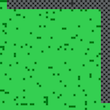
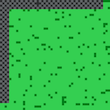
Create board layout and set object spawns

diff --git a/kayl.html b/kayl.html
@@ -39,9 +39,9 @@
       <table id="gameboard" class="text-center">
         <tr class="y0">
           <td class="x0 topLeftCorner"></td>
-          <td class="x1 topBorder"></td>
-          <td class="x2 topBorder"></td>
-          <td class="x3 topBorder"></td>
+          <td class="x1 topBorder wall-down"></td>
+          <td class="x2 topBorder wall-down"></td>
+          <td class="x3 topBorder wall-down"></td>
           <td class="x4 topBorder"></td>
           <td class="x5 topBorder"></td>
           <td class="x6 topBorder"></td>
@@ -50,107 +50,107 @@
           <td class="x9 topRightCorner"></td>
         </tr>
         <tr class="y1">
-          <td class="x0 leftBorder"></td>
-          <td class="x1 bodyTile"></td>
-          <td class="x2 bodyTile1"></td>
-          <td class="x3 barrier"></td>
-          <td class="x4 bodyTile"></td>
-          <td class="x5 bodyTile wall-right"></td>
-          <td class="x6 bodyTile wall-left"></td>
-          <td class="x7 bodyTile2"></td>
+          <td class="x0 leftBorder wall-right"></td>
+          <td class="x1 wall-left wall-up wall2-lu"></td>
+          <td class="x2 bodyTile1 wall-up"></td>
+          <td class="x3 bodyTile4 wall-up wall-right wall2-ru"></td>
+          <td class="x4 wall-left"></td>
+          <td class="x5 bodyTile"></td>
+          <td class="x6 bodyTile"></td>
+          <td class="x7 wall-down"></td>
           <td class="x8 bodyTile"></td>
           <td class="x9 rightBorder"></td>
         </tr>
         <tr class="y2">
-          <td class="x0 leftBorder"></td>
-          <td class="x1 bodyTile"></td>
+          <td class="x0 leftBorder wall-right"></td>
+          <td class="x1 bodyTile wall-left"></td>
           <td class="x2 bodyTile1"></td>
-          <td class="x3 bodyTile"></td>
-          <td class="x4 bodyTile"></td>
-          <td class="x5 bodyTile3 wall-right wall-down"></td>
-          <td class="x6 bodyTile"></td>
-          <td class="x7 bodyTile"></td>
-          <td class="x8 bodyTile"></td>
+          <td class="x3 bodyTile wall-right"></td>
+          <td class="x4 bodyTile wall-left"></td>
+          <td class="x5 bodyTile3"></td>
+          <td class="x6 bodyTile wall-right"></td>
+          <td class="x7 bodyTile wall-left wall-up wall2-lu"></td>
+          <td class="x8 barrier"></td>
           <td class="x9 rightBorder"></td>
         </tr>
         <tr class="y3">
-          <td class="x0 leftBorder"></td>
+          <td class="x0 leftBorder wall-right"></td>
           <td class="x1 bodyTile wall-left wall-down wall2-ld"></td>
-          <td class="x2 bodyTile wall-left wall-up wall2-lu"></td>
-          <td class="x3 bodyTile wall-right wall-down wall2-rd"></td>
-          <td class="x4 bodyTile wall-right wall-up wall2-ru"></td>
-          <td class="x5 bodyTile wall-up"></td>
-          <td class="x6 bodyTile"></td>
+          <td class="x2 bodyTile wall-down"></td>
+          <td class="x3 bodyTile"></td>
+          <td class="x4 bodyTile wall-up"></td>
+          <td class="x5 bodyTile"></td>
+          <td class="x6 bodyTile wall-up"></td>
           <td class="x7 bodyTile3"></td>
-          <td class="x8 bodyTile"></td>
-          <td class="x9 rightBorder"></td>
+          <td class="x8 bodyTile wall-right"></td>
+          <td class="x9 rightBorder wall-left"></td>
         </tr>
         <tr class="y4">
           <td class="x0 leftBorder"></td>
-          <td class="x1 bodyTile wall-right wall-left wall-down wall3-rld"></td>
-          <td class="x2 bodyTile wall-up wall-left wall-down wall3-ldu"></td>
-          <td class="x3 bodyTile wall-right wall-up wall-down wall3-rdu"></td>
-          <td class="x4 bodyTile1 wall-right wall-left wall-up wall3-rlu"></td>
-          <td class="x5 bodyTile4"></td>
+          <td class="x1 bodyTile wall-up"></td>
+          <td class="x2 bodyTile wall-up"></td>
+          <td class="x3 bodyTile"></td>
+          <td class="x4 bodyTile1"></td>
+          <td class="x5 barrier"></td>
           <td class="x6 bodyTile"></td>
           <td class="x7 bodyTile"></td>
-          <td class="x8 bodyTile"></td>
-          <td class="x9 rightBorder"></td>
+          <td class="x8 bodyTile wall-right"></td>
+          <td class="x9 rightBorder wall-left"></td>
         </tr>
         <tr class="y5">
           <td class="x0 leftBorder"></td>
           <td class="x1 bodyTile"></td>
-          <td class="x2 bodyTile2"></td>
-          <td class="x3 bodyTile"></td>
+          <td class="x2 bodyTile2 wall-down"></td>
+          <td class="x3 bodyTile wall-down"></td>
           <td class="x4 bodyTile4"></td>
           <td class="x5 bodyTile"></td>
           <td class="x6 bodyTile4"></td>
           <td class="x7 bodyTile"></td>
-          <td class="x8 bodyTile3"></td>
-          <td class="x9 rightBorder"></td>
+          <td class="x8 bodyTile3 wall-right"></td>
+          <td class="x9 rightBorder wall-left"></td>
         </tr>
         <tr class="y6">
           <td class="x0 leftBorder"></td>
-          <td class="x1 bodyTile"></td>
-          <td class="x2 bodyTile3"></td>
-          <td class="x3 bodyTile"></td>
+          <td class="x1 bodyTile wall-right wall-down wall2-rd"></td>
+          <td class="x2 bodyTile3 wall-left wall-up wall2-lu"></td>
+          <td class="x3 bodyTile wall-right wall-up wall2-ru"></td>
           <td class="x4 bodyTile"></td>
           <td class="x5 bodyTile"></td>
           <td class="x6 bodyTile2"></td>
           <td class="x7 bodyTile"></td>
-          <td class="x8 bodyTile"></td>
-          <td class="x9 rightBorder"></td>
+          <td class="x8 bodyTile wall-right"></td>
+          <td class="x9 rightBorder wall-left"></td>
         </tr>
         <tr class="y7">
-          <td class="x0 leftBorder"></td>
-          <td class="x1 bodyTile"></td>
+          <td class="x0 leftBorder wall-right"></td>
+          <td class="x1 bodyTile wall-up wall-left wall-down wall3-ldu"></td>
           <td class="x2 bodyTile2"></td>
           <td class="x3 bodyTile"></td>
           <td class="x4 bodyTile"></td>
           <td class="x5 bodyTile"></td>
           <td class="x6 bodyTile"></td>
           <td class="x7 bodyTile1"></td>
-          <td class="x8 bodyTile"></td>
-          <td class="x9 rightBorder"></td>
+          <td class="x8 bodyTile wall-right"></td>
+          <td class="x9 rightBorder wall-left"></td>
         </tr>
         <tr class="y8">
           <td class="x0 leftBorder"></td>
-          <td class="x1 bodyTile"></td>
+          <td class="x1 barrier"></td>
           <td class="x2 bodyTile"></td>
-          <td class="x3 bodyTile2"></td>
-          <td class="x4 bodyTile"></td>
+          <td class="x3 bodyTile2 wall-right"></td>
+          <td class="x4 bodyTile wall-left"></td>
           <td class="x5 bodyTile"></td>
           <td class="x6 bodyTile1"></td>
-          <td class="x7 bodyTile"></td>
-          <td class="x8 bodyTile"></td>
-          <td class="x9 rightBorder"></td>
+          <td class="x7 bodyTile wall-down"></td>
+          <td class="x8 bodyTile wall-down wall-right wall2-rd"></td>
+          <td class="x9 rightBorder wall-left"></td>
         </tr>
         <tr class="y9">
           <td class="x0 bottomLeftCorner"></td>
           <td class="x1 bottomBorder"></td>
           <td class="x2 bottomBorder"></td>
-          <td class="x3 bottomBorder"></td>
-          <td class="x4 bottomBorder"></td>
+          <td class="x3 bottomBorder wall-right"></td>
+          <td class="x4 bottomBorder wall-left"></td>
           <td class="x5 bottomBorder"></td>
           <td class="x6 bottomBorder"></td>
           <td class="x7 bottomBorder"></td>
@@ -161,3 +161,18 @@
     </div>
   </body>
 </html>
+
+wall-up
+wall-down
+wall-left
+wall-right
+
+2wall-RU: wall-right wall-up wall2-ru
+2wall-LU: wall-left wall-up wall2-lu
+2wall-RD: wall-right wall-down wall2-rd
+2wall-LD: wall-left wall-down wall2-ld
+
+3wall-RLD: wall-right wall-left wall-down wall3-rld
+3wall-LDU: wall-up wall-left wall-down wall3-ldu
+3wall-RDU: wall-right wall-up wall-down wall3-rdu
+3wall-RLU: wall-right wall-left wall-up wall3-rlu

diff --git a/css/kayl-styles.css b/css/kayl-styles.css
@@ -9,37 +9,6 @@ td {
   text-align: center;
 }
 
-.topLeftCorner {
-  background-image: url(../kayl-img/topLeftCorner.png);
-}
-
-.topRightCorner {
-  background-image: url(../kayl-img/topRightCorner.png);
-}
-
-.bottomLeftCorner {
-  background-image: url(../kayl-img/bottomLeftCorner.png);
-}
-
-.bottomRightCorner {
-  background-image: url(../kayl-img/bottomRightCorner.png);
-}
-
-.topBorder {
-  background-image: url(../kayl-img/topBorder.png);
-}
-
-.bottomBorder {
-  background-image: url(../kayl-img/bottomBorder.png);
-}
-
-.leftBorder {
-  background-image: url(../kayl-img/leftBorder.png);
-}
-
-.rightBorder {
-  background-image: url(../kayl-img/rightBorder.png);
-}
 
 .bodyTile {
   background-image: url(../kayl-img/bodyTile.png);
@@ -105,6 +74,38 @@ td {
 }
 .wall3-rld {
   background-image: url(../kayl-img/wall3rld.png);
+}
+
+.topLeftCorner {
+  background-image: url(../kayl-img/topLeftCorner.png);
+}
+
+.topRightCorner {
+  background-image: url(../kayl-img/topRightCorner.png);
+}
+
+.bottomLeftCorner {
+  background-image: url(../kayl-img/bottomLeftCorner.png);
+}
+
+.bottomRightCorner {
+  background-image: url(../kayl-img/bottomRightCorner.png);
+}
+
+.topBorder {
+  background-image: url(../kayl-img/topBorder.png);
+}
+
+.bottomBorder {
+  background-image: url(../kayl-img/bottomBorder.png);
+}
+
+.leftBorder {
+  background-image: url(../kayl-img/leftBorder.png);
+}
+
+.rightBorder {
+  background-image: url(../kayl-img/rightBorder.png);
 }
 
 .container {

diff --git a/js/kayl-scripts.js b/js/kayl-scripts.js
@@ -285,13 +285,13 @@ $(document).ready(function() {
   var gameObjects = [];
   var enemies = [];
   var player = new GameObject("Player", "player.png", 0, 0);
-  var goal = new GameObject("Goal", "toilet.png", 9, 9);
-  var patrol = new GameObject("Patrol", "poop.png", 1, 4, "patrol");
-  var hunter = new GameObject("Hunter", "hunter.gif", 9, 0, "hunter", player);
-  var guard = new GameObject("Guard (vertical)", "guard.jpg", 5, 6, "vertical");
-  var guard2 = new GameObject("Guard (horizontal)", "arrow.png", 5, 8, "horizontal");
-  var powerUp = new GameObject("Power Up", "dice.png", 7, 9);
-  var rival = new GameObject("Rival", "peace.png", 5, 6, "hunter", goal);
+  var goal = new GameObject("Goal", "toilet.png", 1, 7);
+  var patrol = new GameObject("Patrol", "poop.png", 3, 9, "patrol");
+  var hunter = new GameObject("Hunter", "hunter.gif", 2, 2, "hunter", player);
+  var guard = new GameObject("Guard (vertical)", "guard.jpg", 4, 5, "vertical");
+  var guard2 = new GameObject("Guard (horizontal)", "arrow.png", 4, 1, "horizontal");
+  var powerUp = new GameObject("Power Up", "dice.png", 8, 9);
+  var rival = new GameObject("Rival", "peace.png", 7, 2, "hunter", goal);
   gameObjects.push(player, goal, powerUp, patrol, hunter, guard, guard2);
   enemies.push(patrol, hunter, guard, guard2);
 
